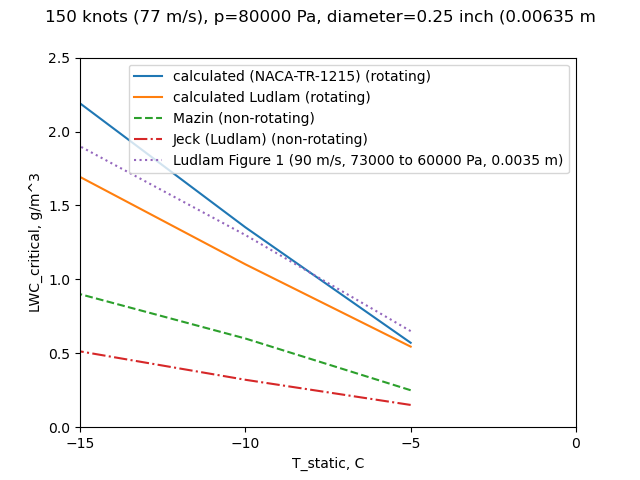
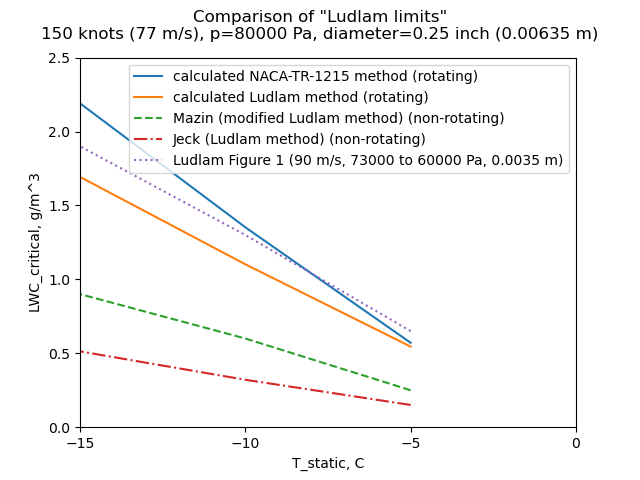
ludlam.md

Changed region(s): [[0.0625, 0.0, 0.9375, 0.0938], [0.3438, 0.125, 0.7812, 0.3125]]

diff --git a/content/ludlam.md b/content/ludlam.md
@@ -10,7 +10,7 @@ or
 ##"A confusion of Ludlam Limits"
 
 ##Summary
-Various "Ludlam Limits" have been implemented, but they produce varying results.  
+Various "Ludlam Limits" have been implemented, but they produce different results.  
 
 ##Key points  
 1. Calculations are laid out for finding the "critical" LWC where not all available water freezes on a cylinder. 
@@ -128,12 +128,13 @@ Areas where Mazin is different:
 Jeck cited Ludlam, but did not provide details of the implementation. 
 Jeck presented results as "Ludlam limit" icing rates on the cylinder, 
 as shown in Figure 22c below, 
-which may readily be converted to an LWC value using equation (8). 
 
-![Jeck Figure 22c](images/Ludlam/JeckFigure22c.png)
+![Jeck Figure 22c](images/Ludlam/JeckFigure22c.png) 
 
->![Jeck equation (8)](images/Ludlam/Jeck_equ8.png) 
->![Jeck equation (8)](images/Ludlam/Jeck_beta.png)
+which may readily be converted to an LWC value using the continuity equation. 
+
+>![Jeck equation (8)](images/Ludlam/Jeck_beta.png) 
+> LWC = thick_growth_rate / ice_density / (beta * airspeed)  [with unit conversions]
 
 NACA-TR-1215 cites Ludlam, and includes a "critical" LWC value. 
 Differences include:
@@ -148,12 +149,12 @@ but these are enough to make a point.
 
 ###The various "Ludlam limit" methods produce significantly different results. 
 
-![](images/Ludlam/ludlam_comparisons_all.png) 
+![Comparison of "Ludlam limit" values](images/Ludlam/ludlam_comparisons_all.png) 
 
 For Mazin, the most important difference is that the area for evaporation and convection is 
 confined to the impingement area, which for most cases for this small cylinder
 is the front half. 
-This largely explains why the Mazin LWC results are about 1/2 of the python implementation,
+This largely explains why the Mazin LWC results are about 1/2 of the python implementation, 
 which allows evaporation and convection over the entire surface. 
  
 I speculate that Jeck attempted to use Ludlam's published evaporation coefficient
@@ -197,13 +198,7 @@ Ludlam is cited by 3 publications in the NACA Icing Publications Database [^7]:
 
 An online search found that Ludlam is cited 106 times in the literature [^8].  
 
-
-###Related
-
-something related
-
-##Notes: 
-
+##Notes:  
 [^1]: 
 Ludlam, F. H.: The Heat Economy of a Rimed Cylinder. Quart. Jour. Roy. Meteorological Soc., vol. 77, no.334., Oct. 1951.  
 [^2]: Hardy, J. K.: An Analysis of the Dissipation of Heat in Conditions of Icing from a Section of the Wing of the C-46 Airplane. NACA-TR-831, 1945. (Formerly NACA-ARR-4I11a.)  
@@ -213,12 +208,12 @@ Brun, Rinaldo J., Lewis, William, Perkins, Porter J., and Serafini, John S.: Imp
 [^5]: 
 Mazin, I. P., A. V. Korolev, A. Heymsfield, G. A. Isaac, and S. G. Cober, 2001: Thermodynamics of Icing Cylinder for Measurements of Liquid Water Content in Supercooled Clouds. J. Atmospheric Ocean. Technol., 18, 543-558  
 I also recommend Mazin, I. P., 1957: The Physical Principles of Aircraft Icing (in Russian). Gidrometeoizdat, 120 pp  
-This is a candidate for "The Greatest Thing That You (Probably) Have Not Read"  
+This is a candidate for "The Greatest Thing That You (Probably) Have Never Read"  
 A translation to English is available at [DTIC](https://apps.dtic.mil/sti/pdfs/ADA083374.pdf)  
 [^6]: 
 Jeck, Richard K., Icing Design Envelopes (14 CFR Parts 25 and 29, Appendix C) Converted to a Distance-Based Format, DOT/FAA/AR-00/30, April, 2002.  
-[^6]: 
-[NACA Icing Publications Database]({filename}naca icing publications database.md)  
 [^7]: 
+[NACA Icing Publications Database]({filename}naca icing publications database.md)  
+[^8]: 
 https://scholar.google.com/scholar?hl=en&as_sdt=0%2C48&q=The+Heat+Economy+of+a+Rimed+Cylinder&btnG=  
 
